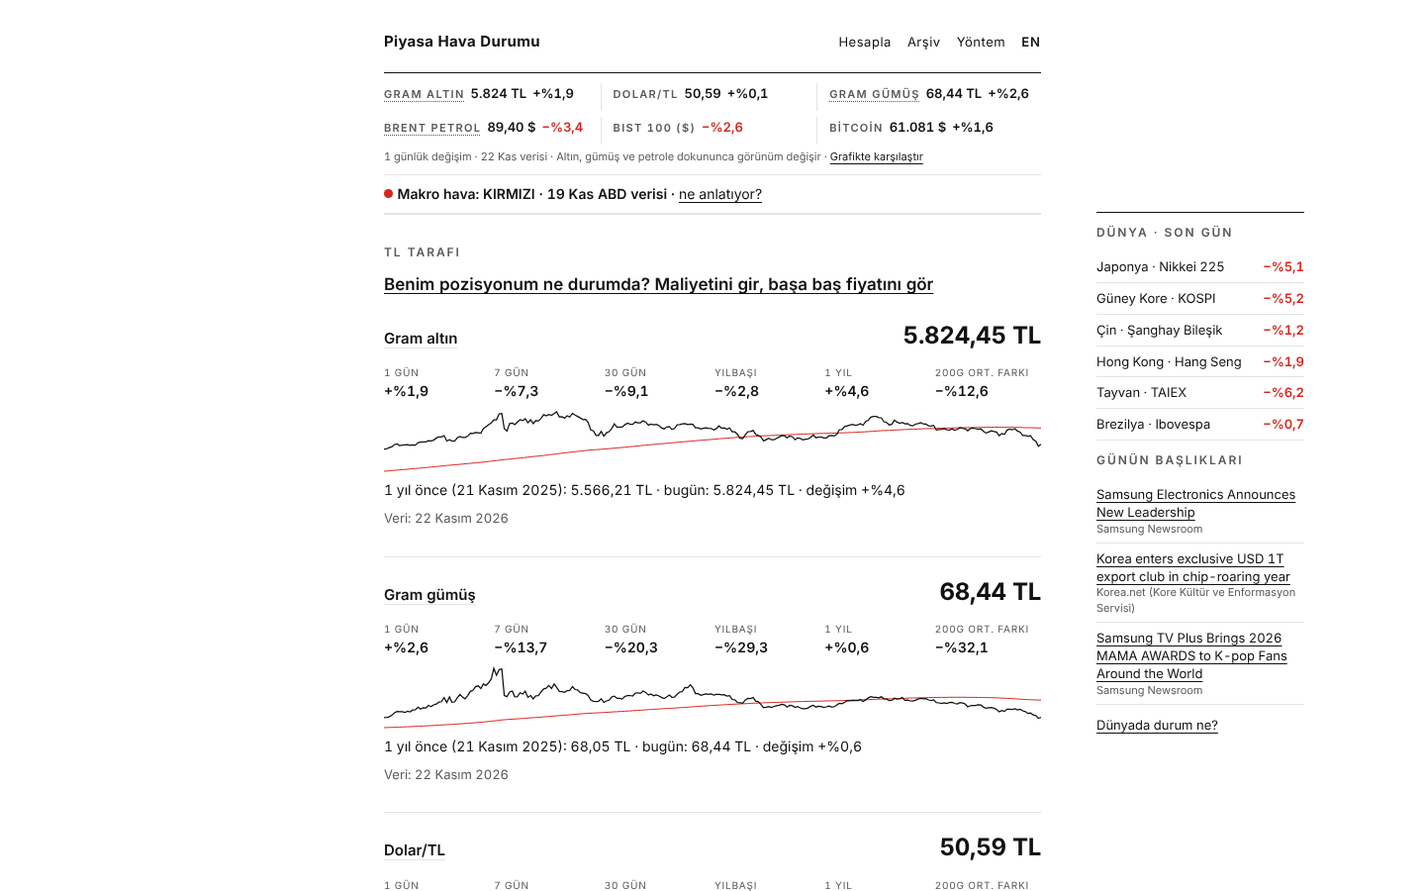
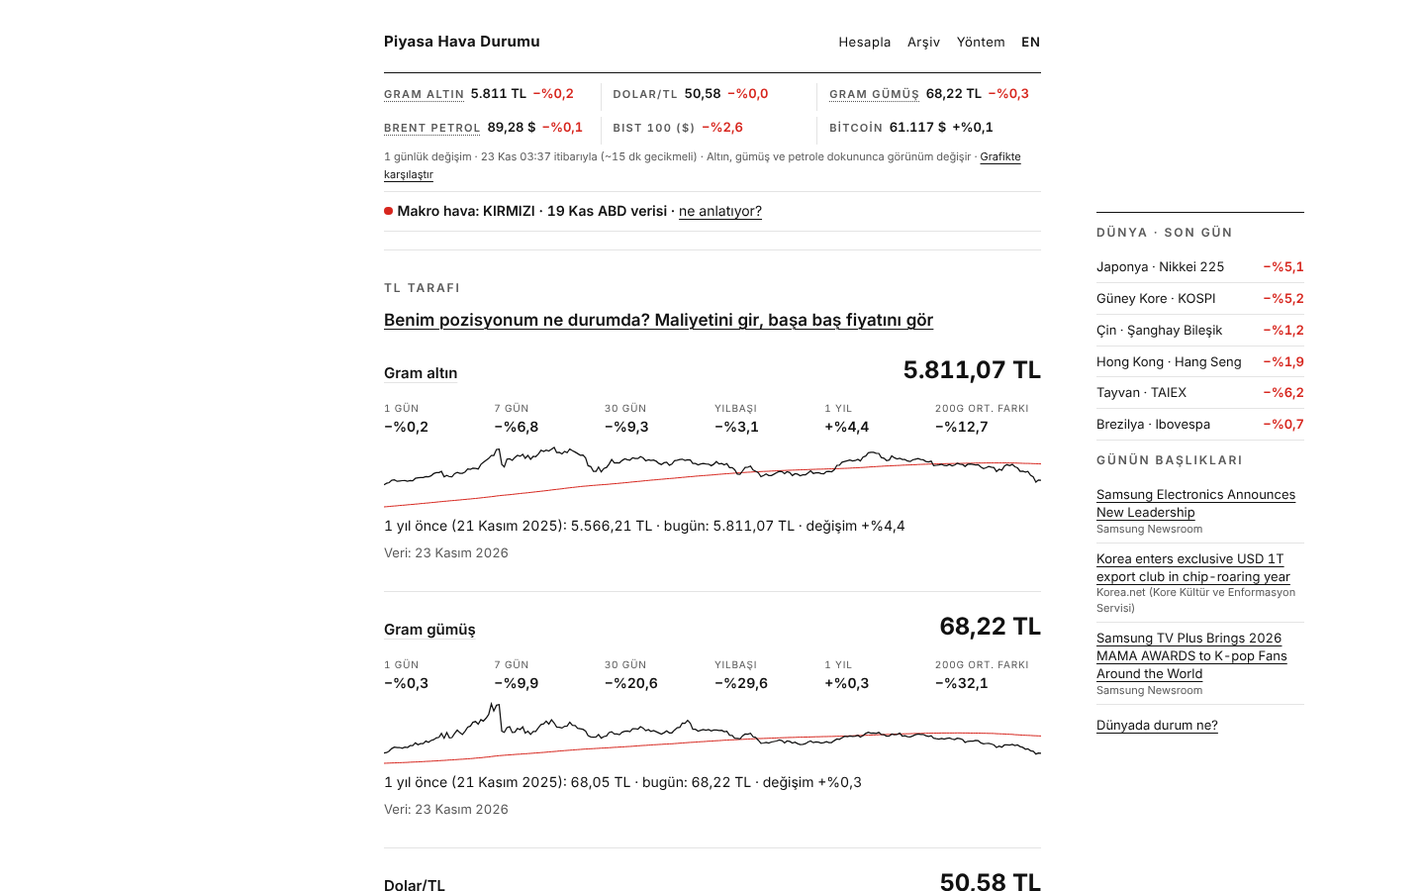
Calculator: 'what happened this week' from tl.json and the daily digest, euro asset; plain-economics page; retire old build task note
Claude-Session: https://claude.ai/code/session_01HYDefgn5NWFqFd8ndNssHq

diff --git a/piyasa/hesapla.js b/piyasa/hesapla.js
@@ -131,8 +131,8 @@
     } catch (e) { /* ignore */ }
   }
 
-  var UNIT_TR = EN ? { gram_altin: "gram of gold", gram_gumus: "gram of silver", dolar: "dollar", btc: "BTC", eth: "ETH", bist100: "points", diger: "unit" }
-                   : { gram_altin: "gram altın", gram_gumus: "gram gümüş", dolar: "dolar", btc: "BTC", eth: "ETH", bist100: "puan", diger: "adet" };
+  var UNIT_TR = EN ? { gram_altin: "gram of gold", gram_gumus: "gram of silver", dolar: "dollar", euro: "euro", btc: "BTC", eth: "ETH", bist100: "points", diger: "unit" }
+                   : { gram_altin: "gram altın", gram_gumus: "gram gümüş", dolar: "dolar", euro: "euro", btc: "BTC", eth: "ETH", bist100: "puan", diger: "adet" };
 
   // today's prices + the user's own price for "Diğer" (never sent anywhere)
   function PX() {
@@ -180,6 +180,7 @@
     if (EN) {
       var curE = c === "USD" ? "dollars" : "TL";
       if (a === "dolar") return ["On average, how many TL did you pay for 1 dollar?", "How many dollars do you have?"];
+      if (a === "euro") return ["On average, how many TL did you pay for 1 euro?", "How many euros do you have?"];
       if (a === "bist100") return ["On average, where was BIST 100 (points) when you bought?", "Amount invested (TL)"];
       if (a === "diger") return ["On average, how many TL did you pay for 1 unit?", "How many units do you have?"];
       if (a === "btc" || a === "eth") return ["On average, how many " + curE + " did you pay for 1 " + UNIT_TR[a] + "?", "How many " + UNIT_TR[a] + " do you have?"];
@@ -187,6 +188,7 @@
     }
     var cur = c === "USD" ? "dolar" : "TL";
     if (a === "dolar") return ["1 doları ortalama kaç TL'ye aldın?", "Kaç doların var?"];
+    if (a === "euro") return ["1 euroyu ortalama kaç TL'ye aldın?", "Kaç euron var?"];
     if (a === "bist100") return ["Aldığında BIST 100 ortalama kaç puandı?", "Yatırdığın tutar (TL)"];
     if (a === "diger") return ["1 adet için ortalama kaç TL ödedin?", "Kaç adet var?"];
     if (a === "btc" || a === "eth") return ["1 " + UNIT_TR[a] + " için ortalama kaç " + cur + " ödedin?", "Kaç " + UNIT_TR[a] + " var?"];
@@ -299,8 +301,9 @@
     if (r.spreadPct) out.appendChild(el("p", "mute small", L(
       "Makas satırları, piyasa fiyatı yerine bozdururken eline geçecek fiyatla hesaplanır. Makası sen girdin; gerçek makas yere ve saate göre değişir.",
       "The spread rows use the price you would actually receive when selling instead of the market price. You entered the spread; real spreads vary by dealer and time.")));
+    related(a, out);
 
-    if (a === "bist100" || a === "diger") return;
+    if (a === "bist100" || a === "diger" || a === "euro") return;
     out.appendChild(el("p", "label kicker", L("Dolar/TL değişirse", "If USD/TRY changes")));
     var showBe = a !== "dolar";
     var t2 = el("table"), th = el("thead"), hr = el("tr");
@@ -334,7 +337,60 @@
     out.appendChild(el("p", "mute small", note));
   }
 
+  // ---- "Bu hafta ne oldu?": the asset's 7-day move + up to 2 items of today's digest on the same topic.
+  // Only facts already published on the site (tl.json, ozet.json); nothing about the user is sent anywhere.
+  var TLD = null, OZET = null, OZET_ASKED = false;
+  var TOPICS = { gram_altin: ["Altın ve emtia"], gram_gumus: ["Altın ve emtia"], diger: ["Altın ve emtia"],
+    dolar: ["Türkiye", "Merkez bankaları"], euro: ["Türkiye", "Merkez bankaları"], bist100: ["Türkiye", "Şirketler"],
+    btc: ["Kripto"], eth: ["Kripto"] };
+  var TL_ID = { gram_altin: "gram_altin", gram_gumus: "gram_gumus", dolar: "dolar", bist100: "bist100_usd", btc: "btc", eth: "eth" };
+  function related(a, out) {
+    if (!OZET_ASKED) {
+      OZET_ASKED = true;
+      fetch(DATA + "ozet.json", { cache: "no-cache", credentials: "omit", referrerPolicy: "no-referrer" })
+        .then(function (r) { if (!r.ok) throw new Error(r.status); return r.json(); })
+        .then(function (o) { OZET = o && Array.isArray(o.items) ? o : null; if (OZET && $("sonuc").querySelector(".big")) update(); })
+        .catch(function () { OZET = null; });
+    }
+    var box = el("div", "related");
+    var asset = TLD && (TLD.assets || []).filter(function (x) { return x && x.id === TL_ID[a]; })[0];
+    if (asset && typeof asset.chg_7g === "number") {
+      var nm = a === "bist100" ? L("BIST 100 (dolar bazında)", "BIST 100 (in dollars)") : (asset.label && !EN ? asset.label : (C.ASSETS[a] || {}).label);
+      if (!EN && a !== "bist100") nm = nm.charAt(0).toLocaleLowerCase("tr-TR") + nm.slice(1);
+      box.appendChild(el("p", "rel-line", L("Son 7 günde ", "Last 7 days: ") + nm + " " + signedPct(asset.chg_7g) +
+        (typeof asset.chg_30g === "number" ? L(", son 30 günde ", ", last 30 days ") + signedPct(asset.chg_30g) : "") + "."));
+    }
+    var fresh = OZET && /^\d{4}-\d{2}-\d{2}$/.test(String(OZET.date || "")) &&
+      (Date.now() - Date.parse(OZET.date + "T00:00:00Z")) < 3 * 864e5;
+    if (fresh) {
+      var want = TOPICS[a] || [];
+      OZET.items.filter(function (it) { return it && want.indexOf(it.konu) >= 0; }).slice(0, 2).forEach(function (it) {
+        var p = el("p", "rel-item");
+        p.appendChild(el("strong", null, (EN && it.baslik_en) || it.baslik || ""));
+        var oz = (EN && it.ozet_en) || it.ozet;
+        if (oz) p.appendChild(document.createTextNode(" " + oz));
+        var k = (it.kaynaklar || [])[0];
+        if (k && /^https:\/\//.test(String(k.url || ""))) {
+          p.appendChild(document.createTextNode(" "));
+          var ka = el("a", null, k.ad || L("Kaynak", "Source"));
+          ka.href = k.url; ka.rel = "noopener noreferrer"; ka.target = "_blank";
+          p.appendChild(ka);
+        }
+        box.appendChild(p);
+      });
+    }
+    if (!box.firstChild) return;
+    out.appendChild(el("p", "label kicker", L("Bu hafta ne oldu?", "What happened this week?")));
+    out.appendChild(box);
+    var more = el("p", "mute small");
+    var ml = el("a", null, L("Günün özeti ve TL tarafı ana sayfada", "Today's digest and the lira side on the home page"));
+    ml.href = "./" + (EN ? "?lang=en" : "");
+    more.appendChild(ml);
+    out.appendChild(more);
+  }
+
   function init(d) {
+    TLD = d || null;
     P = d && d.prices ? d.prices : null;
     // One date for the page: gram gold's last close (the dollar can carry thin weekend quotes with a later date).
     var ga = d && (d.assets || []).filter(function (x) { return x && x.id === "gram_altin"; })[0];

diff --git a/piyasa/kolay-ekonomi.html b/piyasa/kolay-ekonomi.html
@@ -1,0 +1,78 @@
+<!doctype html>
+<html lang="tr">
+<head>
+<meta charset="utf-8">
+<meta name="viewport" content="width=device-width,initial-scale=1">
+<meta http-equiv="Content-Security-Policy" content="default-src 'self'; script-src 'none'; style-src 'self'; font-src 'self'; img-src 'self' data:; base-uri 'self'; form-action 'none'; object-src 'none'">
+<meta name="referrer" content="strict-origin-when-cross-origin">
+<title>Kolay ekonomi: kur, altın, enflasyon ve faiz — Piyasa Hava Durumu</title>
+<meta name="description" content="Dolar yükselince gram altın neden yükselir, enflasyon birikimi nasıl etkiler, faiz kararı neden önemli, ons ve ayar nedir — sade Türkçe ve örneklerle.">
+<link rel="canonical" href="https://samiboran.github.io/sweeplab/piyasa/kolay-ekonomi.html">
+<meta property="og:type" content="article">
+<meta property="og:site_name" content="Piyasa Hava Durumu">
+<meta property="og:locale" content="tr_TR">
+<meta property="og:title" content="Kolay ekonomi: kur, altın, enflasyon ve faiz">
+<meta property="og:description" content="Birikimini etkileyen dört konu, sade Türkçe ve örneklerle.">
+<meta property="og:url" content="https://samiboran.github.io/sweeplab/piyasa/kolay-ekonomi.html">
+<meta property="og:image" content="https://samiboran.github.io/sweeplab/piyasa/og.png">
+<meta name="twitter:card" content="summary_large_image">
+<link rel="icon" href="favicon.svg" type="image/svg+xml">
+<link rel="stylesheet" href="style.css">
+<script type="application/ld+json">
+{"@context":"https://schema.org","@type":"Article","headline":"Kolay ekonomi: kur, altın, enflasyon ve faiz","inLanguage":"tr","datePublished":"2026-11-23","author":{"@type":"Organization","name":"Piyasa Hava Durumu"},"publisher":{"@type":"Organization","name":"Piyasa Hava Durumu","url":"https://samiboran.github.io/sweeplab/piyasa/"},"mainEntityOfPage":"https://samiboran.github.io/sweeplab/piyasa/kolay-ekonomi.html"}
+</script>
+</head>
+<body>
+<div class="wrap">
+  <header class="masthead">
+    <div class="brandbox"><a class="brand" href="./">Piyasa Hava Durumu</a></div>
+    <nav aria-label="Site"><a href="./">Bugün</a><a href="hesapla.html">Hesapla</a><a href="arsiv.html">Arşiv</a><a href="yontem.html">Yöntem</a></nav>
+  </header>
+  <main class="prose">
+    <p class="label kick">Kolay ekonomi</p>
+    <h1>Birikimini etkileyen dört şey, sade dille</h1>
+    <p class="mute">Örneklerdeki sayılar yalnız anlatım içindir; güncel değil. Bu sayfa nasıl çalıştığını anlatır, ne yapılması gerektiğini söylemez.</p>
+    <hr class="accent">
+    <ul class="more">
+      <li><a href="#kur-altin">Dolar yükselince gram altın neden yükselir?</a></li>
+      <li><a href="#enflasyon">Enflasyon birikimini nasıl etkiler?</a></li>
+      <li><a href="#faiz">Faiz kararı neden önemli?</a></li>
+      <li><a href="#ons-ayar">Ons, gram, ayar: altının birimleri</a></li>
+    </ul>
+
+    <section>
+      <h2 id="kur-altin">Dolar yükselince gram altın neden yükselir?</h2>
+      <p>Altının dünya fiyatı dolarla ve "ons" başına belirlenir. Türkiye'deki gram altın fiyatı bundan hesaplanır: <strong>gram = ons fiyatı × dolar/TL ÷ 31,1035</strong>.</p>
+      <p>Yani gram altını iki şey birlikte belirler: altının dünyadaki fiyatı ve kur. Ons 3.600 $, kur 50,50 TL iken gram yaklaşık 5.845 TL'dir. Ons hiç değişmeden kur %10 artıp 55,55 TL olursa gram da yaklaşık %10 artar: 6.430 TL.</p>
+      <p>İkisi ters yöne de gidebilir. Aynı günlerde ons %10 düşüp 3.240 $'a inerse, kurdaki %10'luk artış bunu neredeyse dengeler; gram yaklaşık 5.787 TL olur. Gram altındaki bir değişimin kurdan mı, onstan mı geldiğini görmek için ana sayfadaki bantta ons altına dokunabilirsin.</p>
+    </section>
+
+    <section>
+      <h2 id="enflasyon">Enflasyon birikimini nasıl etkiler?</h2>
+      <p>Enflasyon, fiyatların genel olarak artmasıdır. Birikimin TL olarak artsa bile aynı dönemde fiyatlar daha çok arttıysa, o parayla eskisinden daha az şey alabilirsin.</p>
+      <p>Buna "gerçek getiri" denir: <strong>(1 + birikimin artışı) ÷ (1 + enflasyon) − 1</strong>. Örnek: birikimin bir yılda %30 arttı, aynı yıl enflasyon %35 oldu. Gerçek getiri 1,30 ÷ 1,35 − 1 ≈ <strong>−%3,7</strong>. TL olarak kârdasın ama alım gücün biraz azaldı.</p>
+      <p>Türkiye'de resmî enflasyonu TÜİK açıklar (tüketici fiyat endeksi, TÜFE). Hesaplayıcıya ileride "aldığın tarihten bu yana enflasyon" satırı eklenecek.</p>
+    </section>
+
+    <section>
+      <h2 id="faiz">Faiz kararı neden önemli?</h2>
+      <p>Merkez bankası (Türkiye'de TCMB) belirli aralıklarla politika faizini açıklar. Bu oran bankaların birbirine ve merkez bankasına borçlanma maliyetini etkiler; zamanla mevduat ve kredi faizlerine yansıyabilir.</p>
+      <p>Faiz kararları kur, altın ve borsa üzerinde de etkili olabilir; ama etkinin yönü ve büyüklüğü o günün koşullarına, beklentilere ve başka gelişmelere bağlıdır. Bu yüzden tek bir karardan kesin sonuç çıkarmak zordur. Kararların tarihlerini "Bu hafta" sayfasındaki veri takviminde, açıklamaların özetini "Günün özeti"nde bulabilirsin.</p>
+    </section>
+
+    <section>
+      <h2 id="ons-ayar">Ons, gram, ayar: altının birimleri</h2>
+      <p><strong>1 ons = 31,1035 gram.</strong> Dünya piyasasında altın ve gümüş ons ile fiyatlanır.</p>
+      <p><strong>Ayar</strong>, altının saflığını gösterir. 24 ayar neredeyse saf altındır; 22 ayarın yaklaşık %91,6'sı altındır. Çeyrek altın yaklaşık 1,75 gram ağırlığında ve 22 ayardır; içindeki saf altın yaklaşık 1,6 gramdır.</p>
+      <p>Çeyrek, yarım ve cumhuriyet altınının fiyatına işçilik ve piyasa farkı da eklenir; bu yüzden fiyatları gram fiyatından doğrudan hesaplanamaz. Hesaplayıcıda bunlar için bugünkü bozdurma fiyatını kendin girersin. Makas ve ortalama maliyet için <a href="altin-hesaplama.html">altın hesaplama rehberine</a> bakabilirsin.</p>
+    </section>
+
+    <p class="tl-link"><a href="hesapla.html">Kendi pozisyonunu hesapla</a></p>
+  </main>
+  <footer>
+    <p>Yatırım tavsiyesi değildir. Bu sayfa kavramları anlatır; alım, satım ya da zamanlama önerisi vermez.</p>
+    <p>© Piyasa Hava Durumu — türetilmiş veriler kaynak gösterilerek kullanılabilir (CC BY 4.0)</p>
+  </footer>
+</div>
+</body>
+</html>

diff --git a/piyasa/pozisyon.js b/piyasa/pozisyon.js
@@ -10,10 +10,10 @@
   var I = window.PHD_I18N, EN = !!(I && I.en);
   var MONTHS = EN ? ["January", "February", "March", "April", "May", "June", "July", "August", "September", "October", "November", "December"]
                   : ["Ocak", "Şubat", "Mart", "Nisan", "Mayıs", "Haziran", "Temmuz", "Ağustos", "Eylül", "Ekim", "Kasım", "Aralık"];
-  var UNIT = EN ? { gram_altin: "g of gold", gram_gumus: "g of silver", dolar: "dollars", btc: "BTC", eth: "ETH", bist100: "TL in BIST 100", diger: "units" }
-                : { gram_altin: "gram altın", gram_gumus: "gram gümüş", dolar: "dolar", btc: "BTC", eth: "ETH", bist100: "TL BIST 100", diger: "adet" };
-  var ONE = EN ? { gram_altin: "1 gram", gram_gumus: "1 gram", dolar: "1 dollar", btc: "1 BTC", eth: "1 ETH", diger: "1 unit" }
-               : { gram_altin: "1 gram", gram_gumus: "1 gram", dolar: "1 dolar", btc: "1 BTC", eth: "1 ETH", diger: "1 adet" };
+  var UNIT = EN ? { gram_altin: "g of gold", gram_gumus: "g of silver", dolar: "dollars", euro: "euros", btc: "BTC", eth: "ETH", bist100: "TL in BIST 100", diger: "units" }
+                : { gram_altin: "gram altın", gram_gumus: "gram gümüş", dolar: "dolar", euro: "euro", btc: "BTC", eth: "ETH", bist100: "TL BIST 100", diger: "adet" };
+  var ONE = EN ? { gram_altin: "1 gram", gram_gumus: "1 gram", dolar: "1 dollar", euro: "1 euro", btc: "1 BTC", eth: "1 ETH", diger: "1 unit" }
+               : { gram_altin: "1 gram", gram_gumus: "1 gram", dolar: "1 dolar", euro: "1 euro", btc: "1 BTC", eth: "1 ETH", diger: "1 adet" };
   function L(tr, en) { return EN ? en : tr; }
   function $(id) { return document.getElementById(id); }
   function el(tag, cls, text) {

diff --git a/piyasa/hesapla-core.js b/piyasa/hesapla-core.js
@@ -10,6 +10,7 @@
     btc: { label: "Bitcoin (BTC)", unit: "BTC" },
     eth: { label: "Ether (ETH)", unit: "ETH" },
     dolar: { label: "Dolar", unit: "dolar", tlOnly: true },
+    euro: { label: "Euro", unit: "euro", tlOnly: true },
     bist100: { label: "BIST 100", unit: "puan", tlOnly: true },
     // çeyrek / cumhuriyet altını, bilezik, euro…: no reliable free price, so the user types today's price
     diger: { label: "Diğer (fiyatı sen gir)", unit: "adet", tlOnly: true, custom: true }
@@ -23,6 +24,7 @@
     if (asset === "gram_altin" && p.gram_altin_tl) tl = +p.gram_altin_tl;
     else if (asset === "gram_gumus" && p.gram_gumus_tl) tl = +p.gram_gumus_tl;
     else if (asset === "dolar") tl = u;
+    else if (asset === "euro" && +p.eurtry > 0) tl = +p.eurtry;
     else if (asset === "bist100" && p.bist100_tl) tl = +p.bist100_tl;
     else if (asset === "diger") { if (+p.custom_tl > 0) tl = +p.custom_tl; else return null; }
     else if ((asset === "btc" || asset === "eth") && p[asset + "_usd"]) usd = +p[asset + "_usd"];
@@ -80,7 +82,7 @@
         s.breakevenUsd = a.metal ? breakevenOunceUsd(cost, u) : cost / u;
         s.breakevenUsdUnit = a.metal ? "ons" : a.unit;
         // TL value if the USD price stays as today
-        s.valueTl = asset === "dolar" ? u * amount : (asset === "bist100" || asset === "diger" ? null : px.usd * u * amount);
+        s.valueTl = asset === "dolar" ? u * amount : (asset === "bist100" || asset === "diger" || asset === "euro" ? null : px.usd * u * amount);
         s.plPct = s.valueTl == null ? null : (s.valueTl / r.costTotal - 1) * 100;
       } else {
         s.breakevenTl = cost * u;

diff --git a/piyasa/i18n.js b/piyasa/i18n.js
@@ -55,7 +55,7 @@
     "Dünya": "World", "Dünyada durum ne?": "How is the world doing?",
     "Japonya, Kore, Çin, Hong Kong, Tayvan, Brezilya, emtialar ve günün başlıkları. Sayfa yalnız açılınca yüklenir.":
       "Japan, Korea, China, Hong Kong, Taiwan, Brazil, commodities and the day's headlines. Loaded only when opened.",
-    "Senin pozisyonun": "Your position", "Sor": "Ask", "Sorular": "Questions", "Daha fazlası": "More",
+    "Senin pozisyonun": "Your position", "Sor": "Ask", "Sorular": "Questions", "Kolay ekonomi": "Plain economics (Turkish)", "Kur, altın, enflasyon ve faiz; sade dille ve örneklerle.": "Exchange rate, gold, inflation and interest rates, explained simply.", "Daha fazlası": "More",
     "Dünyada bu hafta": "This week in the world",
     "Benim pozisyonum ne durumda? Maliyetini gir, başa baş fiyatını gör": "How is my position doing? Enter your cost, see your breakeven price",
     "Borsa İstanbul, ABD ve kriptoda günün hareketlileri.": "Today's movers on Borsa Istanbul, in the US and in crypto.",

diff --git a/piyasa/hesapla.html b/piyasa/hesapla.html
@@ -55,6 +55,7 @@
         <option value="gram_altin">Gram altın</option>
         <option value="gram_gumus">Gram gümüş</option>
         <option value="dolar">Dolar</option>
+        <option value="euro">Euro</option>
         <option value="bist100">BIST 100 (puan)</option>
         <option value="btc">Bitcoin (BTC)</option>
         <option value="eth">Ether (ETH)</option>
@@ -102,7 +103,7 @@
       <button type="submit" class="go" id="hesapla">Hesapla</button>
     </form>
     <div class="res" id="sonuc" aria-live="polite"></div>
-    <p class="mute small guide-link"><a href="altin-hesaplama.html">Hesap nasıl yapılıyor? Örneklerle anlatım</a></p>
+    <p class="mute small guide-link"><a href="altin-hesaplama.html">Hesap nasıl yapılıyor? Örneklerle anlatım</a> · <a href="kolay-ekonomi.html">Kolay ekonomi</a></p>
   </main>
   <footer>
     <p>Yatırım tavsiyesi değildir. Veriler bilgi amaçlıdır. Hesap sonuçları yalnız aritmetiktir.</p>

diff --git a/piyasa/index.html b/piyasa/index.html
@@ -97,6 +97,7 @@
     <section aria-labelledby="l-daha">
       <p class="label" id="l-daha">Daha fazlası</p>
       <ul class="more">
+        <li><a href="kolay-ekonomi.html">Kolay ekonomi</a> <span class="mute small">Kur, altın, enflasyon ve faiz; sade dille ve örneklerle.</span></li>
         <li><a href="hareket.html">Bugün piyasada neler oldu?</a> <span class="mute small">Borsa İstanbul, ABD ve kriptoda günün hareketlileri.</span></li>
         <li><a href="dunya.html">Dünyada durum ne?</a> <span class="mute small">Asya, Brezilya, emtialar ve günün başlıkları.</span></li>
         <li><a href="hafta.html" id="hafta-link">Dünyada bu hafta</a> <span class="mute small">Geçmiş yıllarda bu hafta ne oldu (pazartesi ve cuma).</span></li>

diff --git a/piyasa/style.css b/piyasa/style.css
@@ -397,3 +397,6 @@ ul.poz-rows li{display:flex;gap:10px;padding:6px 0;border-top:1px solid var(--ru
 ul.poz-rows .poz-pl{flex:0 0 5.2em;font-weight:700;font-variant-numeric:tabular-nums}
 ul.poz-rows .poz-pl.neg{color:var(--red)}
 #main > .macro-line{margin:0 0 18px}
+.related{border-left:2px solid var(--red);padding:2px 0 2px 12px;margin:6px 0 8px}
+.related p{margin:0 0 8px;font-size:15px;line-height:1.5}
+.related .rel-line{font-weight:600}

diff --git a/tools/fetch_tl.py b/tools/fetch_tl.py
@@ -26,7 +26,7 @@ NOTEBOOK = os.environ.get("NOTEBOOK", "data/derivs/notebook_daily.json")
 OZ_GRAM = 31.1035
 SERIES_DAYS = 400          # calendar days of derived series kept for small charts (> 1 year)
 UA = {"User-Agent": "Mozilla/5.0 (piyasa-hava-durumu; github actions)"}
-SYMBOLS = {"USDTRY": "TRY=X", "GOLD_USD": "GC=F", "SILVER_USD": "SI=F", "XU100": "XU100.IS",
+SYMBOLS = {"USDTRY": "TRY=X", "EURTRY": "EURTRY=X", "GOLD_USD": "GC=F", "SILVER_USD": "SI=F", "XU100": "XU100.IS",
            "BTC_USD": "BTC-USD", "ETH_USD": "ETH-USD",
            # long history for 'Dünyada bu Pazartesi/Cuma' (fund prices, not licensed index levels)
            "SPY": "SPY", "QQQ": "QQQ",
@@ -248,6 +248,10 @@ def derive(data, today, crypto=None):
     if su:
         prices["usdtry"] = round(su["last"], 4)
         prices["usdtry_asof"] = su["asof"]
+    se = stats(data.get("EURTRY") or {})
+    if se:                                          # calculator only (no card, no band)
+        prices["eurtry"] = round(se["last"], 4)
+        prices["eurtry_asof"] = se["asof"]
     if sg:
         prices["gram_altin_tl"] = round(sg["last"], 2)
     if ss:

diff --git a/tools/build_static.py b/tools/build_static.py
@@ -33,7 +33,7 @@ TITLES = {"L1": "Stablecoin arzı", "L2": "Fed net likiditesi", "L3": "Reel faiz
           "K1": "Kredi risk primi", "K2": "Oynaklık (VIX)", "K3": "Nasdaq Bileşik", "N1": "Altın ve dolar",
           "P1": "Petrol"}
 PAGES = [("", "daily"), ("arsiv.html", "daily"), ("hafta.html", "weekly"), ("konum.html", "daily"), ("hareket.html", "daily"), ("karsilastir.html", "daily"), ("dunya.html", "daily"), ("veri.html", "monthly"),
-         ("hesapla.html", "monthly"), ("altin-hesaplama.html", "monthly"), ("yontem.html", "monthly")]
+         ("hesapla.html", "monthly"), ("altin-hesaplama.html", "monthly"), ("kolay-ekonomi.html", "monthly"), ("yontem.html", "monthly")]
 ISO = re.compile(r"^\d{4}-\d{2}-\d{2}$")
 e = html.escape
 

diff --git a/docs/SITE_ROADMAP.md b/docs/SITE_ROADMAP.md
@@ -369,3 +369,4 @@ veri) yayımlanır; puanlama kodu (`tools/`), ham girdiler (`data/derivs`,
 - **2026-11-23 (Boran ile canlı, 13.)** — Hesaplayıcı merkezde (Boran onayı): (1) ana sayfada "Senin pozisyonun · yalnız bu cihazda" kartı (`pozisyon.js`; yalnız "Bu cihazda hatırla" işaretliyse; güncel fiyatla K/Z, başa baş, makas dahil başa baş; "Düzenle" / "Bu cihazdan sil"); (2) "Farklı fiyatlardan birden çok alım" — en çok 20 satır, ağırlıklı ortalama maliyet ve toplam miktar alanlara yazılır (BIST'te gizli: miktar alanı TL tutarı); (3) "Diğer: çeyrek, cumhuriyet, bilezik… (fiyatı sen gir)" — gramdan türetilmez, bugünkü bozdurma fiyatını kullanıcı yazar; (4) kayıt v2: sayılar dilden bağımsız saklanır (TR'de kaydedilen değer EN'de doğru okunur; v1 kayıtlar okunmaya devam eder); (5) bant/hesaplayıcı/kartta "kapanışı" yerine "verisi" (vadeli altın pazar akşamı açılıyor; "kapanış" değil). Testler: `averageLots`, özel varlık. Bekleyen: TÜFE'ye göre reel getiri (EVDS anahtarı, Boran).
 - **2026-11-23 (Boran ile canlı, 14.)** — Dördüncü dış değerlendirme (Sonnet 7/10, Opus 6,5/10). Düzeltilen: "Diğer" varlıkta kart, fiyatın girildiği tarihi gösterir (kayıtta `t`); ana sayfa önizlemesi yenilendi (kart varken üstteki hesaplayıcı bağlantısı gizli, çift çizgi yok — eleştiri eski görüntüdendi). Haftalık "EVDS anahtarı hatırlatması" zamanlanmış görevi kuruldu (pazartesi 10:35 İstanbul). Açık öneriler (Boran kararı): birden çok pozisyon (altın + dolar + çeyrek toplamı), makro hava satırını kartın altına/ayrı sayfaya almak, kayıt dışa/içe aktarma, alan adı ve "gram altın maliyet hesaplama" arama sayfası.
 - **2026-11-23 (Boran ile canlı, 15.)** — Önerilen sıra (Boran onayı): (1) makro hava satırı pozisyon kartının altına alındı (kart yoksa bandın hemen altında); (2) birden çok pozisyon: kayıt v3 `{v:3, list, cur}` (en çok 10; v1/v2 kayıtlar otomatik taşınır, `normalizeStore` testli), hesaplayıcıda "Bu cihazdaki pozisyonların" sekmeleri + "Yeni pozisyon ekle" / "Bu pozisyonu sil"; ana sayfa kartı birden çok pozisyonda toplam değer ve (hepsi TL maliyetliyse) toplam kâr/zarar + satır satır liste; (3) `altin-hesaplama.html` örnekli rehber (makas, ağırlıklı ortalama, gram = ons × kur ÷ 31,1035, çeyrek), betiksiz, sitemap'te; (4) "Dosyaya kaydet" / "Başka cihazdan dosya yükle" (yalnız tarayıcıda; dosya `normalizeStore` ile süzülür, 100 KB sınırı). Alan adı ⏸ Boran.
+- **2026-11-23 (Boran ile canlı, 16.)** — Eski "Piyasa sitesi — inşa" zamanlanmış görevi kapatıldı (Boran onayı; talimatı eski sloganı geri isterdi). Hesaplayıcı ↔ ekonomi köprüsü: sonuç altında "Bu hafta ne oldu?" (varlığın 7/30 günlük değişimi tl.json'dan + Günün özeti'nden aynı konudaki en çok 2 haber; özet 3 günden eskiyse gösterilmez; konu eşlemesi: altın/gümüş/diğer → Altın ve emtia, dolar/euro → Türkiye + Merkez bankaları, BIST → Türkiye + Şirketler, kripto → Kripto). Euro varlığı (fetch_tl `EURTRY=X` → `prices.eurtry`; ilk çalışmada geçmiş otomatik doldurulur; o zamana kadar "güncel fiyat yok"). `kolay-ekonomi.html`: kur–altın ilişkisi (formül, örnek), enflasyon ve gerçek getiri, faiz kararı (yön iddiası yok), ons/gram/ayar; ana sayfa "Daha fazlası"nda ve hesaplayıcıda bağlantı, sitemap'te.
